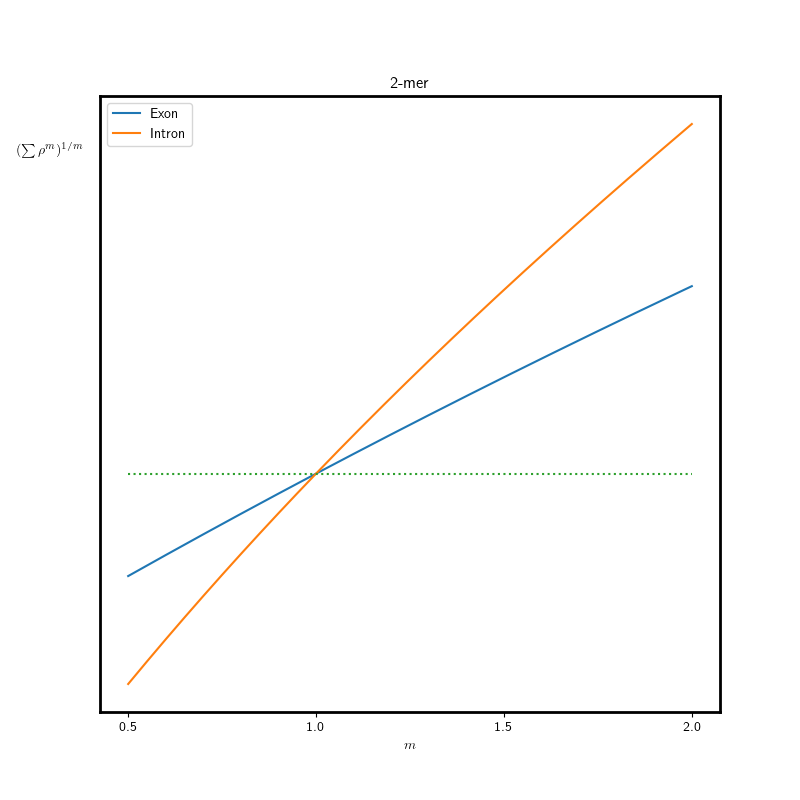
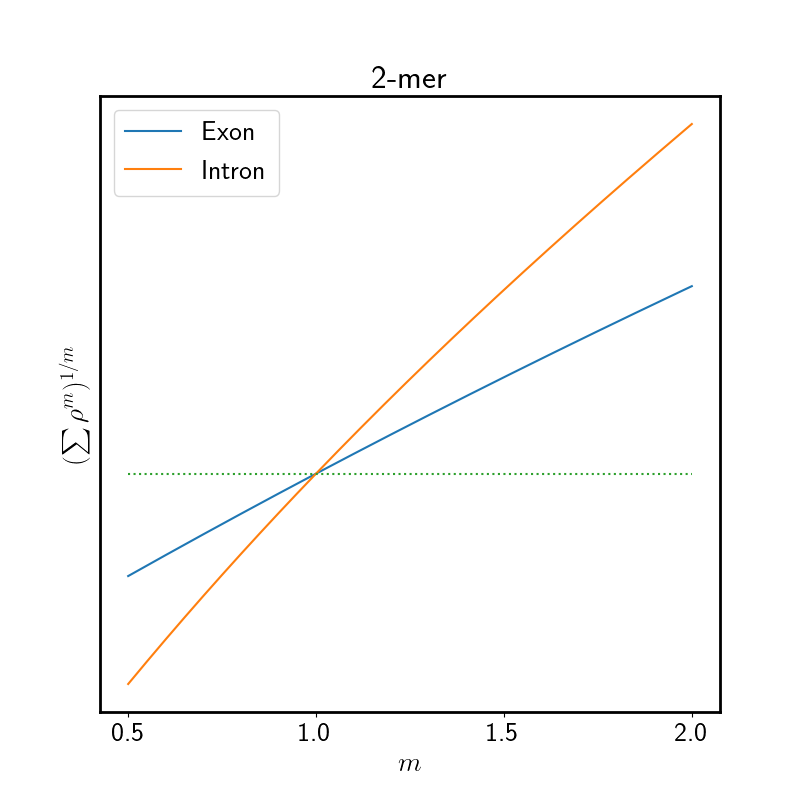
Most of the figures should be fine now

diff --git a/FractalDimension/MomentCalculations.py b/FractalDimension/MomentCalculations.py
@@ -148,8 +148,8 @@ def moments_v2(file_dir: pathlib.Path,
             uni[k].append(1)
 
     print(f"Finished data, printing to plots")
-
-    plt.rc('axes', linewidth=2)
+    plt.rc("font", size = 20)
+    plt.rc('axes', linewidth = 2)
     for key, value in me.items():
         print(f"plotting for {2*key}-mer")
         fig, axs = plt.subplots()
@@ -160,7 +160,7 @@ def moments_v2(file_dir: pathlib.Path,
         axs.plot(ms, mi[key], label = f"Intron")
         axs.plot(ms, uni[key], linestyle = "dotted")
         axs.set_title(f"{2*key}-mer")
-        axs.set_ylabel(r"$(\sum\rho^{m})^{1/m}$", rotation='horizontal')
+        axs.set_ylabel(r"$(\sum\rho^{m})^{1/m}$") #, rotation='horizontal')
         axs.set_xlabel(r"$m$")
         axs.legend()
 
@@ -175,7 +175,7 @@ def moments_v2(file_dir: pathlib.Path,
         else:
             axs.set_yticks([])
 
-        axs.yaxis.set_label_coords(-0.08, 0.9)
+        # axs.yaxis.set_label_coords(-0.0, 0.5)
 
         axs_pd.plot(ms, pd[key])
         axs_pd.set_title(f"Per Diff for {2*key}-mer")

diff --git a/FractalDimension/Heatmaps.py b/FractalDimension/Heatmaps.py
@@ -152,10 +152,10 @@ def main():
     #         title = f"Master Heatmap {2*k}mer") #vmin = master_rescale[0], vmax = master_rescale[1]) #, file_output = cwd / "TE_Images_ForPaper" / "Heatmaps" / f"Master_DS{data_set}_n{n}_{k*2}mer.png")
     
     heatmapv2(exon, colors = colors, bounds = bounds, 
-    x_title = f"Forward {k}-mer", y_title = f"Backward {k}-mer",
+    x_title = f"Anterior {k}-mer", y_title = f"Posterior {k}-mer",
     title = f"Exon Equal Area Heatmap\n{2*k}mer", fileoutput = cwd / "TE_Images_ForPaper" / "Heatmaps" / "EA" / f"Exon_HEA_DS{data_set}_n{n}_{k*2}mer_{file_details}.png")
     heatmapv2(intron, colors = colors, bounds = bounds, 
-    x_title = f"Forward {k}-mer", y_title = f"Backward {k}-mer",
+    x_title = f"Anterior {k}-mer", y_title = f"Posterior {k}-mer",
     title = f"Intron Equal Area Heatmap\n{2*k}mer", fileoutput = cwd / "TE_Images_ForPaper" / "Heatmaps" / "EA" / f"Intron_HEA_DS{data_set}_n{n}_{k*2}mer_{file_details}.png")
     exit()
 
